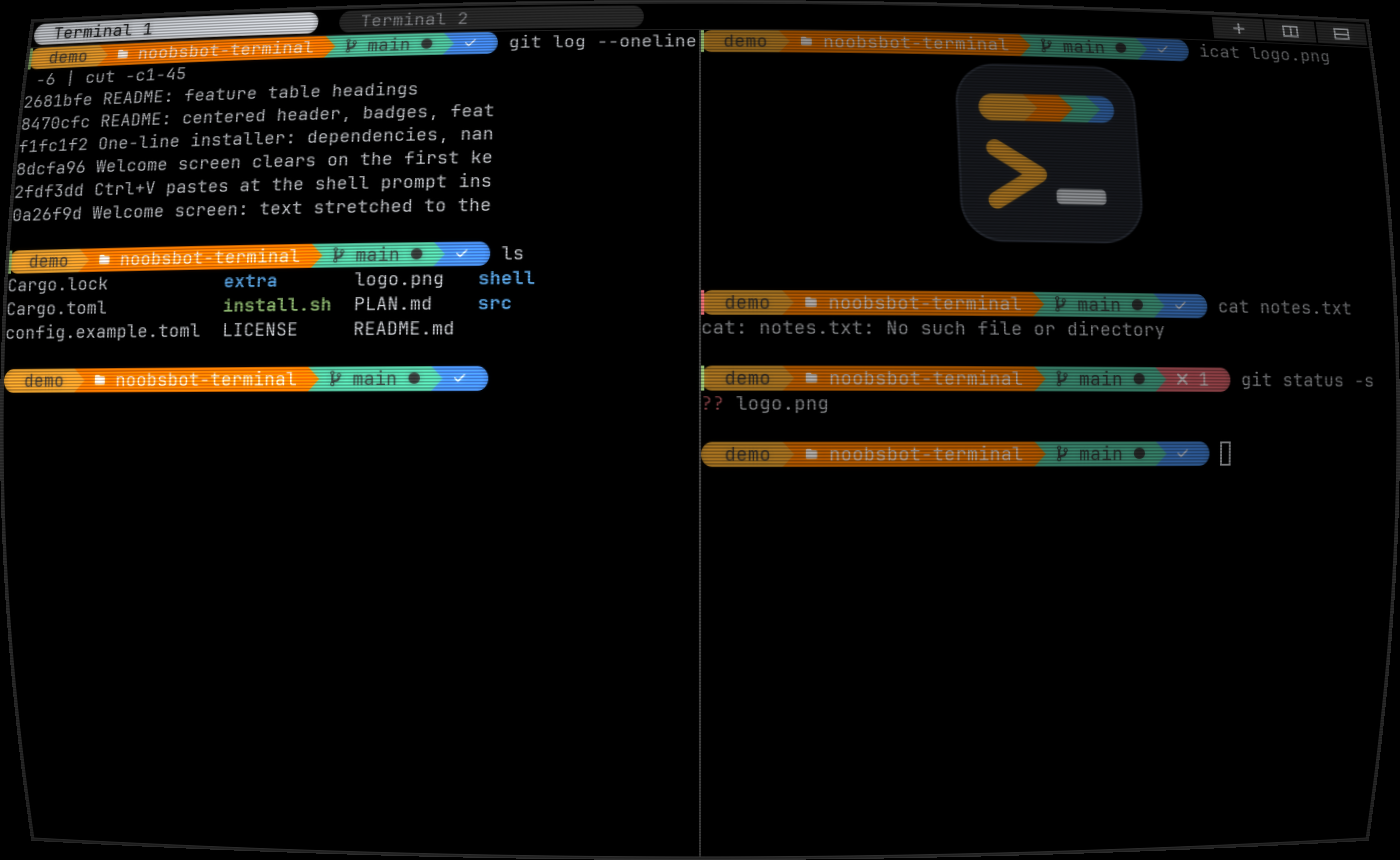
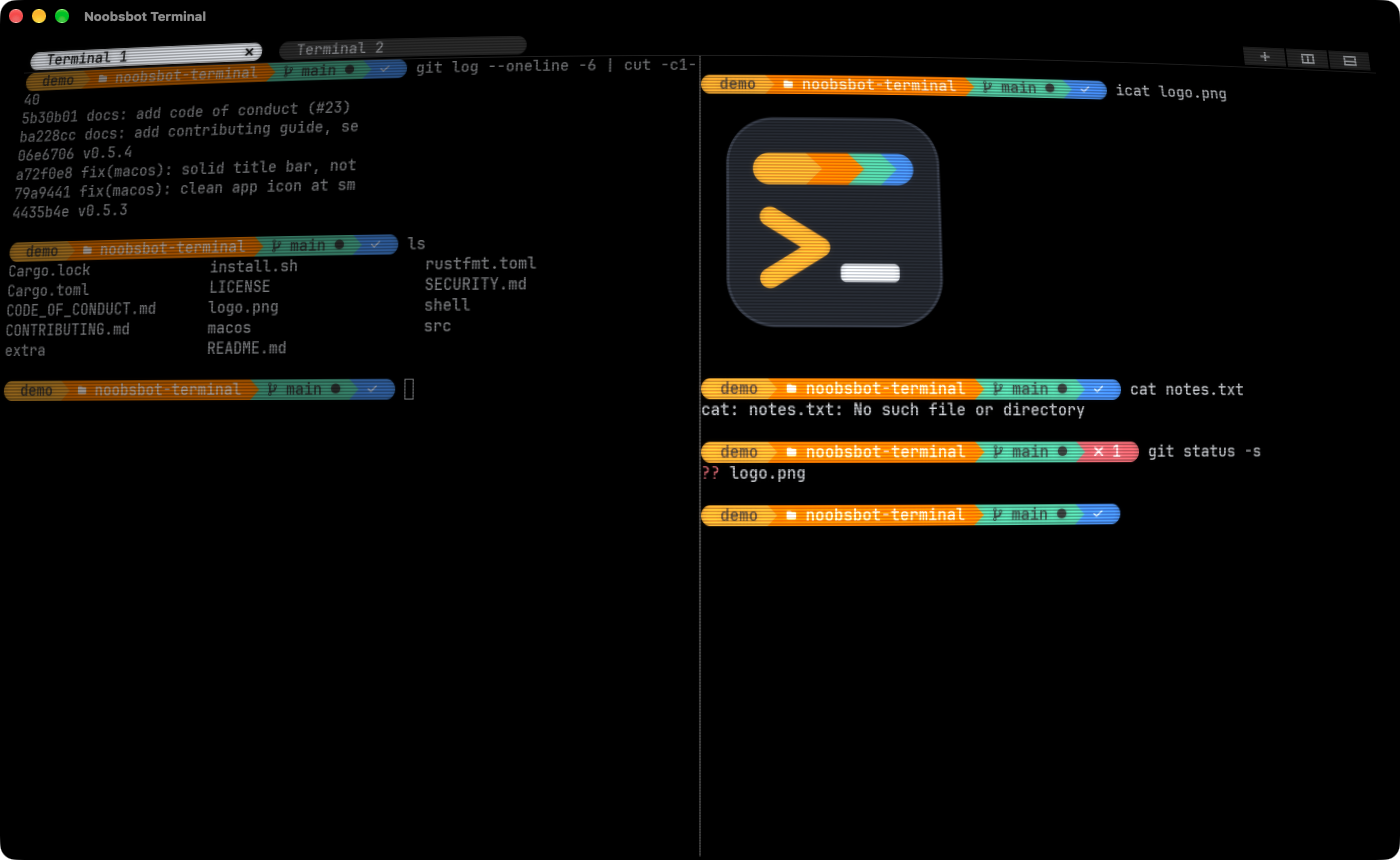
docs: new README screenshots from the macOS app

diff --git a/README.md b/README.md
@@ -11,7 +11,7 @@
 
 <p align="center">
   <a href="LICENSE"><img src="https://img.shields.io/badge/license-MIT-f2ad36?style=flat-square" alt="MIT license"></a>
-  <img src="https://img.shields.io/badge/platform-Linux-4e92e8?style=flat-square&logo=linux&logoColor=white" alt="Linux">
+  <img src="https://img.shields.io/badge/platform-Linux%20%C2%B7%20macOS-4e92e8?style=flat-square" alt="Linux and macOS">
   <img src="https://img.shields.io/badge/written%20in-Rust-ff8700?style=flat-square&logo=rust&logoColor=white" alt="Rust">
   <img src="https://img.shields.io/badge/shells-zsh%20·%20bash%20·%20fish-5bc8a6?style=flat-square" alt="zsh, bash, fish">
 </p>
@@ -26,9 +26,11 @@
 
 ![Split panes and an inline image](extra/screenshots/main.png)
 
+<p align="center"><sub>Screenshots from the macOS app. On Linux it looks the same, without the title bar.</sub></p>
+
 <table>
   <tr>
-    <td align="center"><img src="extra/screenshots/palette.png" alt="Command palette"><br><sub><b>Command palette</b> (Ctrl+Shift+P)</sub></td>
+    <td align="center"><img src="extra/screenshots/palette.png" alt="Command palette"><br><sub><b>Command palette</b> (Ctrl+Shift+P, on macOS Cmd+Shift+P)</sub></td>
     <td align="center"><img src="extra/screenshots/crt.png" alt="CRT mode"><br><sub><b>CRT mode</b></sub></td>
   </tr>
 </table>
